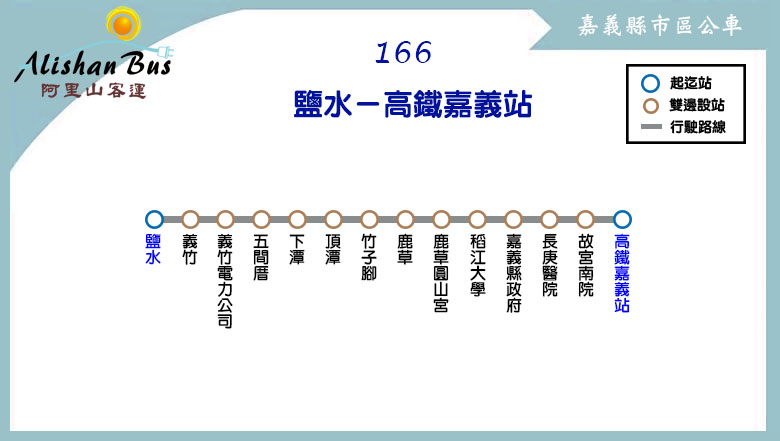
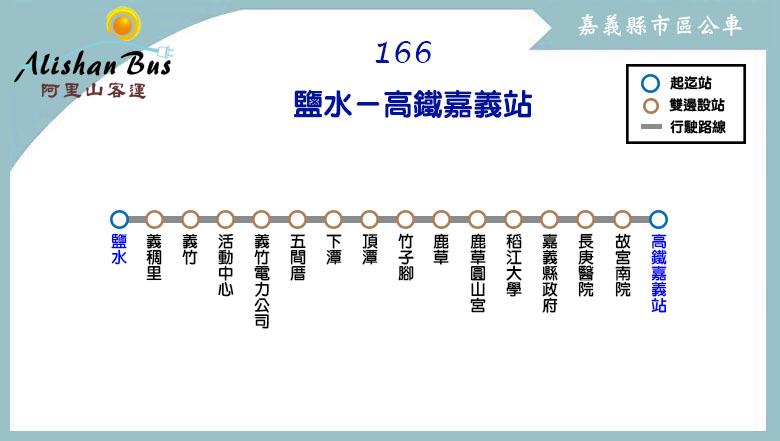
阿里山客運166：新增「義稠里」、「活動中心」站位；更新票價表、移除1元搭車訊息

Changed region(s): [[0.2769, 0.4717, 0.8615, 0.737], [0.1231, 0.4717, 0.2154, 0.6485]]

diff --git a/route/fare_and_time/hsr_shuttle_166.js b/route/fare_and_time/hsr_shuttle_166.js
@@ -1,7 +1,9 @@
-hsr_shuttle_166_interval_name = ["鹽水","義竹","義竹電<br />力公司","五間厝","下潭","頂潭","竹子腳","鹿草","鹿草<br />圓山宮","稻江<br />大學","嘉義<br />縣政府","長庚<br />醫院","故宮<br />南院","高鐵<br />嘉義站"];
+hsr_shuttle_166_interval_name = ["鹽水","義稠里","義竹","活動<br />中心","義竹電<br />力公司","五間厝","下潭","頂潭","竹子腳","鹿草","鹿草<br />圓山宮","稻江<br />大學","嘉義<br />縣政府","長庚<br />醫院","故宮<br />南院","高鐵<br />嘉義站"];
 hsr_shuttle_166_interval_stop = [
 ["鹽水"], // 鹽水
+["義稠里"], // 義稠里
 ["義竹"], // 義竹
+["活動中心"], // 活動中心
 ["義竹電力公司"], // 義竹電力公司
 ["五間厝"], // 五間厝
 ["下潭"], // 下潭
@@ -16,20 +18,22 @@ hsr_shuttle_166_interval_stop = [
 ["高鐵嘉義站"] // 高鐵嘉義站
 ];
 hsr_shuttle_166_fare = [
-[25,22,22,22,28,31,35,40,41,58,63,68,72,82],
-[25,25,22,22,22,22,25,31,32,49,54,58,62,73],
-[25,25,25,22,22,22,22,27,29,45,51,55,59,70],
-[25,25,25,25,22,22,22,22,22,38,43,47,51,62],
-[32,25,25,25,25,22,22,22,22,30,35,40,44,55],
-[36,25,25,25,25,25,22,22,22,27,32,36,41,51],
-[39,29,25,25,25,25,25,22,22,24,29,33,37,48],
-[46,35,31,25,25,25,25,25,22,22,23,28,32,42],
-[47,36,33,25,25,25,25,25,25,22,22,26,30,41],
-[66,56,52,43,34,31,27,25,25,25,22,22,22,24],
-[72,61,58,49,40,36,33,27,25,25,25,22,22,22],
-[77,66,63,54,45,41,38,31,30,25,25,25,22,22],
-[82,71,67,58,50,46,42,36,35,25,25,25,25,22],
-[94,83,80,70,62,58,55,48,47,28,25,25,25,25]
+[25,22,22,22,22,22,28,31,35,40,41,58,63,68,72,82],
+[25,25,22,22,22,22,24,28,31,36,38,55,60,64,68,79],
+[25,25,25,22,22,22,22,22,25,31,32,49,54,58,62,73],
+[25,25,25,25,22,22,22,22,23,28,30,47,52,56,60,71],
+[25,25,25,25,25,22,22,22,22,27,29,45,51,55,59,70],
+[25,25,25,25,25,25,22,22,22,22,22,38,43,47,51,62],
+[32,28,25,25,25,25,25,22,22,22,22,30,35,40,44,55],
+[36,31,25,25,25,25,25,25,22,22,22,27,32,36,41,51],
+[39,35,29,26,25,25,25,25,25,22,22,24,29,33,37,48],
+[46,41,35,32,31,25,25,25,25,25,22,22,23,28,32,42],
+[47,43,36,34,33,25,25,25,25,25,25,22,22,26,30,41],
+[66,62,56,53,52,43,34,31,27,25,25,25,22,22,22,24],
+[72,68,61,59,58,49,40,36,33,27,25,25,25,22,22,22],
+[77,73,66,64,63,54,45,41,38,31,30,25,25,25,22,22],
+[82,78,71,69,67,58,50,46,42,36,35,25,25,25,25,22],
+[94,90,83,81,80,70,62,58,55,48,47,28,25,25,25,25]
 ];
 // format = [time at the start stop] or
 // [time, other] or

diff --git a/hsr_shuttle/166.html b/hsr_shuttle/166.html
@@ -20,9 +20,9 @@
 <body>
 <script type="text/javascript">
 	block_header();
-	block_route_map('<p>166路 嘉義高鐵站-經長庚醫院-鹽水，<span style="color:blue;background-color:white;font-weight:bold;">107.07.01-107.12.31 搭乘只需要1元</span></p><p><img src="http://www.ropobus.com/storage/uploads/image/2018/06/28/9a8c80035a47b2dd0b357f870ab2b0b4.jpg" alt="阿里山客運1元乘車" /></p><p>來源：<a href="http://www.ropobus.com/news_detail?news_id=66" target="_blank">ROPO-阿里山客運公告</a></p>');
+	block_route_map(null);
 	block_route_info(route_interval,'阿里山客運','','里程計費','http://www.taiwanbus.tw/information.aspx?Lang=Cht&Line=10342');
-	block_fare(10, '<span style="color:blue;font-size:24px;font-weight:bold;">107.07.01-107.12.31 搭乘只需要1元</span>');
+	block_fare(10, '');
 	block_time_schedule('鹽水','高鐵嘉義站','');
 	block_transfer(transfer_yanshui + transfer_hsr_chiayi_station);
 	block_copyright();
